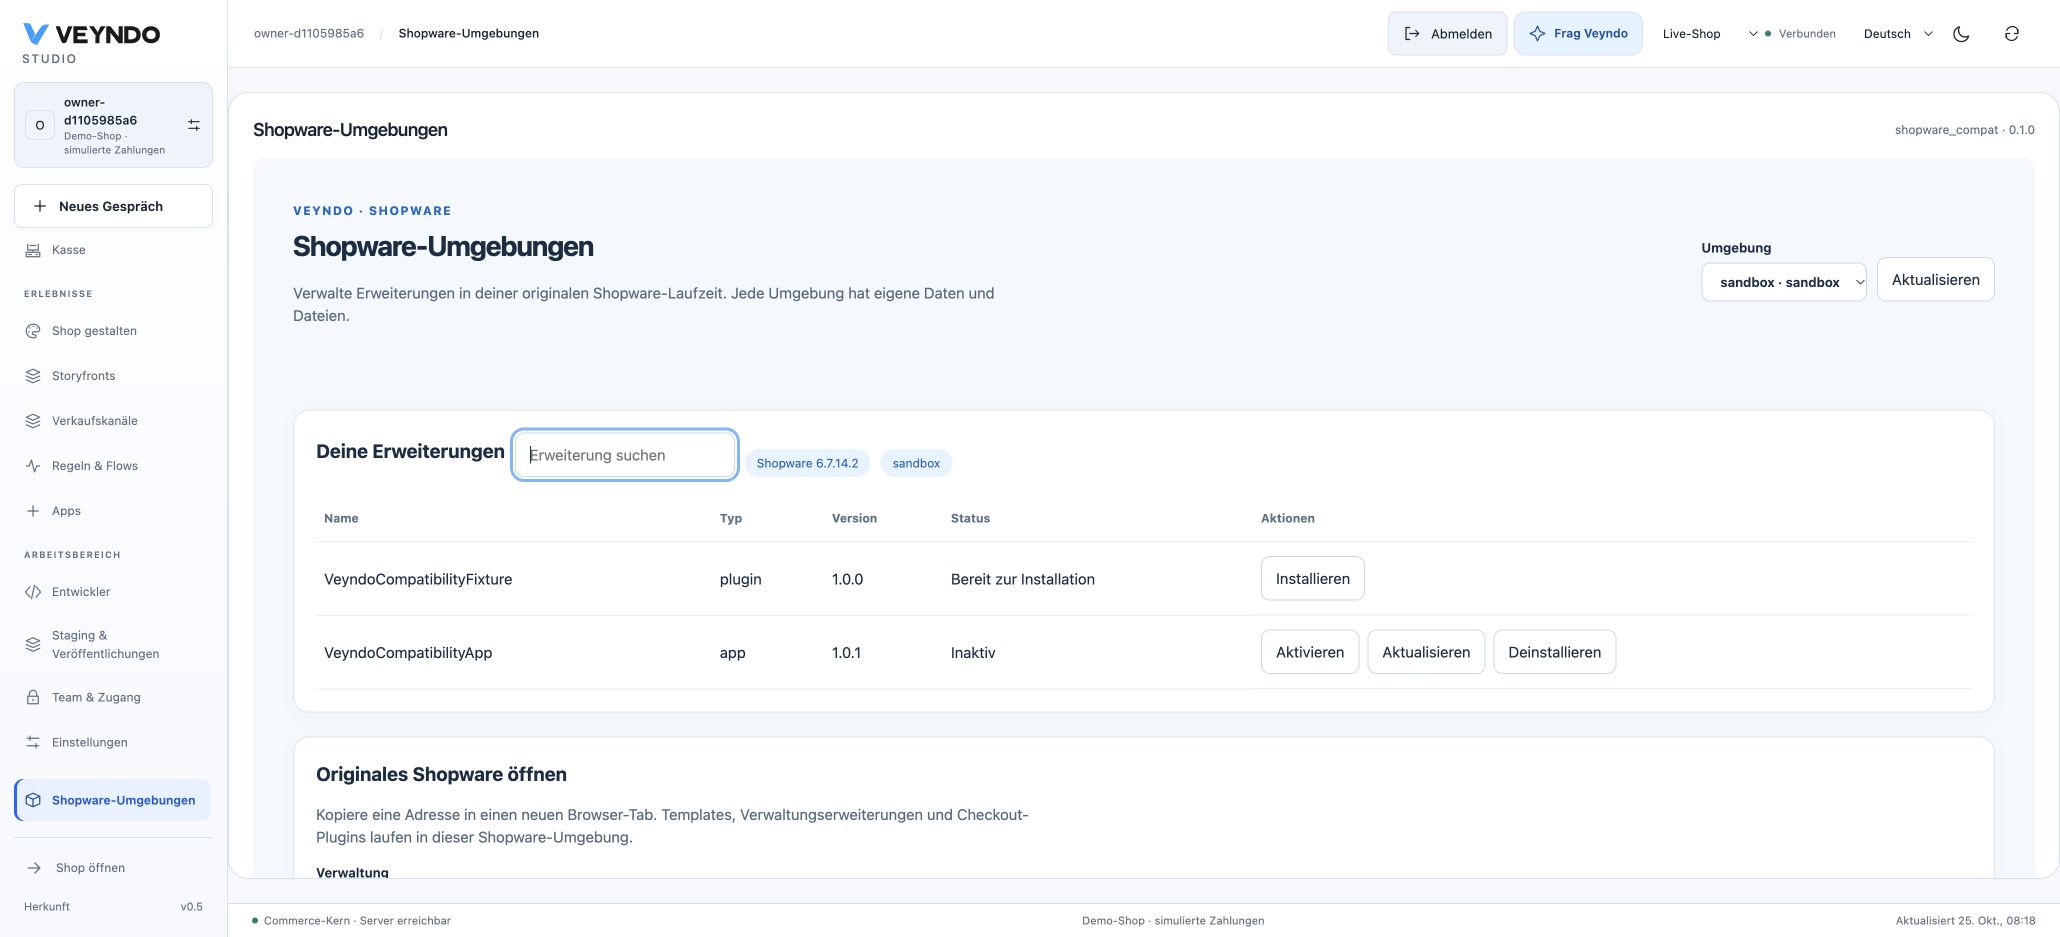
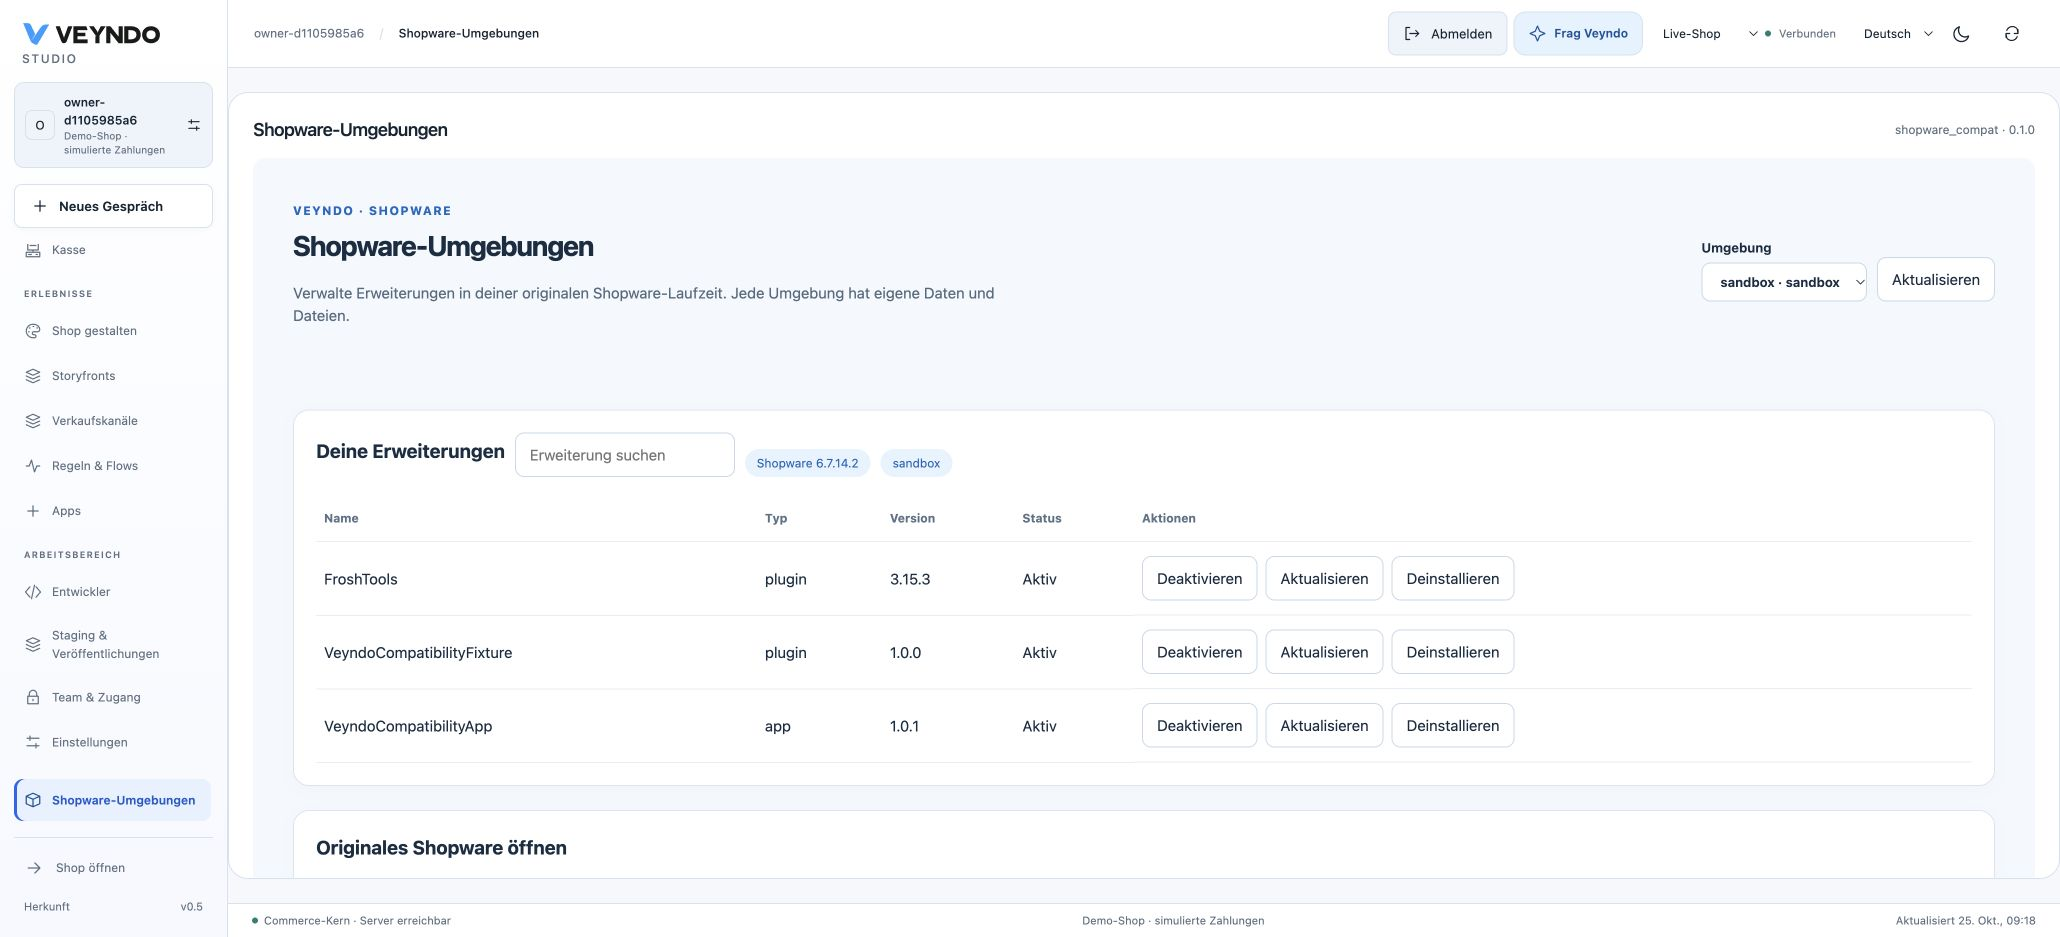
Isolate original Shopware login cookies by cell hostname

diff --git a/extensions/apps/shopware-compat/service/config.rs b/extensions/apps/shopware-compat/service/config.rs
@@ -26,7 +26,9 @@ fn origin(raw: &str, local: bool) -> bool {
         return false;
     };
     (u.scheme() == "https"
-        || (local && u.scheme() == "http" && matches!(u.host_str(), Some("127.0.0.1" | "[::1]"))))
+        || (local
+            && u.scheme() == "http"
+            && matches!(u.host_str(), Some("127.0.0.1" | "[::1]" | "localhost"))))
         && u.host_str().is_some()
         && u.path() == "/"
         && u.username().is_empty()
@@ -54,7 +56,19 @@ impl Config {
         if self.gateway.len() < 24 || self.tenants.is_empty() || self.tenants.len() > 1000 {
             return Err("Invalid gateway configuration".into());
         }
-        let mut origins = HashSet::new();
+        // Cookies ignore ports. Sharing a hostname can overwrite another cell's
+        // original Shopware login, even when their origins/databases differ.
+        let core_hosts = self
+            .tenants
+            .values()
+            .filter_map(|t| {
+                reqwest::Url::parse(&t.core_url)
+                    .ok()?
+                    .host_str()
+                    .map(str::to_owned)
+            })
+            .collect::<HashSet<_>>();
+        let mut hosts = HashSet::new();
         for (id, t) in &self.tenants {
             if id.is_empty()
                 || id.len() > 100
@@ -84,8 +98,9 @@ impl Config {
                     return Err("Invalid fixed Shopware cell configuration".into());
                 }
                 let u = reqwest::Url::parse(&c.url)?;
-                if !origins.insert(u.origin().ascii_serialization()) {
-                    return Err("A Shopware origin cannot be shared between cells or shops".into());
+                let host = u.host_str().ok_or("Missing Shopware hostname")?.to_owned();
+                if core_hosts.contains(&host) || !hosts.insert(host) {
+                    return Err("Shopware cells require distinct hostnames, separate from Veyndo; ports do not isolate cookies".into());
                 }
             }
         }
@@ -111,5 +126,56 @@ mod tests {
         }
         assert!(!origin("http://127.0.0.1:8813", false));
         assert!(origin("http://127.0.0.1:8813", true));
+        assert!(origin("http://localhost:8813", true));
+        assert!(!origin("http://localhost:8813", false));
+    }
+    #[test]
+    fn cell_cookies_cannot_share_a_host_even_on_different_ports() {
+        let cell = |url: &str| Cell {
+            url: url.into(),
+            client_id: "test-client-id-1234".into(),
+            client_secret: "s".repeat(32),
+            version: "6.7.14.2".into(),
+            image_digest: format!("sha256:{}", "a".repeat(64)),
+            environment: "sandbox".into(),
+        };
+        let mut config = Config {
+            gateway: "g".repeat(32),
+            tenants: HashMap::from([(
+                "shop".into(),
+                Tenant {
+                    core_url: "https://core.example".into(),
+                    callback_token: "c".repeat(32),
+                    cells: HashMap::from([
+                        ("one".into(), cell("https://cell.example")),
+                        ("two".into(), cell("https://cell.example:8443")),
+                    ]),
+                },
+            )]),
+        };
+        assert!(config.validate(false).is_err());
+        config
+            .tenants
+            .get_mut("shop")
+            .unwrap()
+            .cells
+            .insert("two".into(), cell("https://core.example:8443"));
+        assert!(config.validate(false).is_err());
+        config
+            .tenants
+            .get_mut("shop")
+            .unwrap()
+            .cells
+            .insert("two".into(), cell("https://other.example"));
+        assert!(config.validate(false).is_ok());
+        config.tenants.insert(
+            "other-shop".into(),
+            Tenant {
+                core_url: "https://other-core.example".into(),
+                callback_token: "c".repeat(32),
+                cells: HashMap::from([("one".into(), cell("https://cell.example:9443"))]),
+            },
+        );
+        assert!(config.validate(false).is_err());
     }
 }

diff --git a/extensions/apps/shopware-compat/tests/container.py b/extensions/apps/shopware-compat/tests/container.py
@@ -28,7 +28,7 @@ with tempfile.TemporaryDirectory(prefix=name) as temp:
     if not args.cell_image:
         run(docker + ['build', '-f', str(PACKAGE / 'deploy/Cell.Dockerfile'), '-t', image, '.'])
     image = run(docker + ['image', 'inspect', image, '--format', '{{.Id}}'], quiet=True).stdout.strip()
-    env_file.write_text(f'CELL_IMAGE={image}\nCELL_URL=http://127.0.0.1:{cell_port}\nCELL_PORT={cell_port}\nCELL_SECRET={app_secret}\nCELL_DB_PASSWORD={db_password}\nCELL_INGRESS_IMAGE={name}-ingress\n')
+    env_file.write_text(f'CELL_IMAGE={image}\nCELL_URL=http://localhost:{cell_port}\nCELL_PORT={cell_port}\nCELL_SECRET={app_secret}\nCELL_DB_PASSWORD={db_password}\nCELL_INGRESS_IMAGE={name}-ingress\n')
     env_file.chmod(0o600)
     compose = docker + ['compose', '--env-file', str(env_file), '-p', name, '-f', str(PACKAGE / 'deploy/compose.yaml')]
     pg_name = name + '-pg'
@@ -54,7 +54,7 @@ with tempfile.TemporaryDirectory(prefix=name) as temp:
         run(cli + ['theme:compile', '--no-interaction'])
         client, secret = 'SWIA' + secrets.token_hex(14).upper(), secrets.token_hex(32)
         run(cli + ['integration:create', 'Synthetic compatibility acceptance', '--admin', '--access-key', client, '--secret-access-key', secret, '--no-interaction'], quiet=True)
-        url = f'http://127.0.0.1:{cell_port}'
+        url = f'http://localhost:{cell_port}'
         for _ in range(60):
             try:
                 with urllib.request.urlopen(url + '/admin', timeout=3) as response:

diff --git a/extensions/apps/shopware-compat/tests/integration.py b/extensions/apps/shopware-compat/tests/integration.py
@@ -25,7 +25,7 @@ def call(base,path,data=None,headers=None,status=200,method=None):
     assert r.status in (status if isinstance(status,tuple) else (status,)),(path,r.status,body)
     return body
 
-sw=os.environ['SHOPWARE_TEST_URL'];assert urlsplit(sw).hostname=='127.0.0.1', 'Use an isolated loopback Shopware'
+sw=os.environ['SHOPWARE_TEST_URL'];assert urlsplit(sw).hostname=='localhost', 'Use localhost for isolated Shopware; Veyndo uses 127.0.0.1'
 client=os.environ['SHOPWARE_TEST_CLIENT'];secret=os.environ['SHOPWARE_TEST_SECRET']
 def sw_headers():
     token=call(sw,'/api/oauth/token',{'grant_type':'client_credentials','client_id':client,'client_secret':secret})['access_token']

diff --git a/docs/evidence/shopware-compatibility-2026-10-25.md b/docs/evidence/shopware-compatibility-2026-10-25.md
@@ -19,6 +19,8 @@ rollout or a compatibility certificate for arbitrary third-party packages.
 | Container boundary | The actual web container ran as www-data with a read-only root, all capabilities dropped and only the internal cell network. |
 | Controller image | The release Docker image built and served its Rust health response as non-root `app`, with a read-only root and dropped capabilities. It contained neither a PHP nor a Python interpreter and exited normally on SIGTERM. |
 | Browser | Personal sign-in, extension inventory, search, review dialog and cancellation worked in Chrome. The guide includes the actual Studio capture. |
+| Existing third-party extension | Unchanged FroshTools 3.15.3 installed and activated through native Veyndo jobs. Its original cache API returned 22 pools; its system/cache administration screens rendered, and its theme compilation action reached the original theme assignment endpoint with HTTP 200. |
+| Browser host isolation | Multiple pre-existing local Shopware tabs shared `127.0.0.1` on different ports. They share the original `bearerAuth` cookie, and the tested session repeatedly lost its token. Moving this cell to `localhost` retained the login across navigation and reload. Configuration now rejects hostname reuse between cells and Veyndo, including different ports; a regression covers intra-shop, cross-shop and core collisions. |
 
 The image used for the local acceptance was
 `sha256:97a3026105b710f8ec43618a2f434e9ddd6c6d3c7e33293ddba5b614d4cfeb17`.
@@ -26,9 +28,17 @@ The package recipe pins original production commit
 `0242545ecdb2364cdb01aa41340c3063282de79e` and includes its Composer lock.
 A build on another architecture has a different image identity.
 
+The additional third-party archive is the official
+[FroshTools 3.15.3 release](https://github.com/FriendsOfShopware/FroshTools/releases/tag/3.15.3),
[1 lines of base64/hex data omitted]
+It was staged in this disposable cell without changing its source. Its external
+security/advisory/time checks reported blocked network access, as expected for the
+internal-only test network. Other FroshTools operations were not certified.
+
 ## Shared host regression
 
-- 235 Rust unit tests passed for the commerce and compatibility binaries; Clippy
+- 235 Rust unit tests passed for the commerce and compatibility binaries; the
+  added cookie-host regression also passed (four controller tests). Clippy
   passed with warnings denied.
 - Ten focused AppFrame tests passed, including foreign document URLs, changed
   context, bridge admission and retry behavior. The frontend production build passed.
@@ -61,7 +71,7 @@ There is no automatic two-way product, inventory or order synchronization with
 native Veyndo, and original checkout plugins do not modify the native Rust
 checkout. App packages requiring external registration, mail or payment providers
 need their own allowed routes and configuration. This local acceptance uses two
-purpose-built extensions; it does not certify Shopware 5, every 6.x version or
+purpose-built extensions plus the listed FroshTools checks; it does not certify Shopware 5, every 6.x version or
 arbitrary commercial extensions. Provisioning and package staging use the supplied
 operator deployment and original Shopware tools.
 

diff --git a/docs/shopware-compatibility.md b/docs/shopware-compatibility.md
@@ -11,7 +11,7 @@ original administration and storefront in that environment.
 
 ![Original Shopware extension inventory inside Veyndo Studio](assets/shopware-compatibility.jpg)
 
-Actual local Studio session with the plugin and App Script fixtures. The screen
+Actual local Studio session with FroshTools 3.15.3 and the plugin/App Script fixtures. The screen
 uses the isolated original Shopware environment; the displayed runtime data comes
 from its Admin API.
 
@@ -29,7 +29,9 @@ flowchart LR
     R --> H[Private Veyndo app records]
 ```
 
-Each shop and environment gets a separate database, files and credentials.
+Each shop and environment gets a separate hostname, database, files and credentials.
+The controller rejects shared hostnames even with different ports, because browser
+cookies do not isolate ports. Veyndo and original Shopware use separate hosts.
 The controller never runs plugin PHP inside Veyndo's Rust process. It has no core
 database credential or Docker socket. Extension code stays inside the original
 Shopware environment; the Veyndo app package owns its controller, UI, deployment
@@ -92,6 +94,15 @@ foreign-tenant rejection and bounded service concurrency.
 The order uses original Shopware’s manual invoice method and remains unpaid;
 it makes no external payment or email call.
 The source fixture and commands live [with the app](../extensions/apps/shopware-compat/tests/integration.py).
+
+An additional local acceptance installed and activated the unchanged public
+[FroshTools 3.15.3 release](https://github.com/FriendsOfShopware/FroshTools/releases/tag/3.15.3)
+through Veyndo jobs. The original administration rendered its system and cache
+views, the cache API returned 22 pools, and its **Compile theme** action completed
+through the original Shopware theme API. The isolated test network blocks external
+update/advisory services; those checks visibly report that they cannot connect.
+
+![FroshTools cache interface inside the original Shopware administration](assets/shopware-froshtools-original.jpg)
 
 This implementation manages original Shopware environments. Automatic catalogue,
 inventory and order synchronization with native Veyndo is not included. A plugin

diff --git a/CHANGELOG.md b/CHANGELOG.md
@@ -6,6 +6,7 @@
 - Package an isolated original Shopware 6.7.14.2 runtime with its Composer lock, separate MariaDB/files, workers and an unprivileged ingress. Plugin PHP and its migrations remain outside the Veyndo core.
 - Persist per-environment mutation locks and receipts through shared app storage. Keep unfinished operations fenced after a controller restart, and exclude operational entities from sandbox cloning and selected publication.
 - Add real original-runtime plugin/App Script fixtures, guest checkout, stock/cart checks and a disposable-container suite to native CI. The operational-record release exclusion extends the existing extracted Lean policy.
+- Reject shared cell/core hostnames even on different ports to prevent original Shopware login cookie collisions. Verify unchanged FroshTools 3.15.3 installation/activation through Veyndo and its original cache interface and theme compilation in Chrome.
 - Repair embedded external app UI by serving pinned code in a response-enforced opaque sandbox, retaining the Studio script policy and per-action grants.
 - Add the setup guide and actual Studio screenshot. Automatic commerce synchronization, arbitrary extension certification and public service deployment are not claimed.
 

diff --git a/extensions/apps/shopware-compat/README.md b/extensions/apps/shopware-compat/README.md
@@ -98,9 +98,13 @@ build `deploy/Controller.Dockerfile` from the repository root.
 ```
 
 The service checks the original version on each inspection. `imageDigest` is
-operator-supplied deployment metadata, not remote image attestation. Shared origins
-across shops/cells are rejected; deployment must also avoid aliasing one database
-through different hostnames. Loopback HTTP requires `SHOPWARE_COMPAT_LOCAL_TEST=1`.
+operator-supplied deployment metadata, not remote image attestation. Each cell
+requires its own hostname, also distinct from every configured Veyndo core host.
+Different ports do not isolate cookies. The service rejects a reused hostname
+across shops/cells, including reuse on another port. Deployment must also avoid
+aliasing one database through different hostnames. For local browser tests use
+`localhost` for one cell and `127.0.0.1` for Veyndo; never open multiple Shopware
+installations on that cell hostname. Loopback HTTP requires `SHOPWARE_COMPAT_LOCAL_TEST=1`.
 Use HTTPS otherwise. `SHOPWARE_COMPAT_BIND` defaults to `127.0.0.1:8812`.
 
 5. Configure the existing Veyndo `APP_SERVICES.shopware_compat` with the service

diff --git a/docs/status.md b/docs/status.md
@@ -9,7 +9,10 @@ journey are tracked separately. All purchases below use **simulated payments**.
 The [Shopware environments app](shopware-compatibility.md) manages a separate
 original Shopware 6.7.14.2 through an app-owned Rust controller, native jobs and
 private operation records. Its local original-runtime tests exercise plugin
-migration/event execution and a Twig App Script. The isolated runtime recipe
+migration/event execution and a Twig App Script. Additional local acceptance
+installed FroshTools 3.15.3 through Veyndo and used its original cache interface
+and theme compilation. Distinct cell/core hostnames prevent login cookie collisions.
+The isolated runtime recipe
 includes its own database and workers. This is not a public deployment or universal
 extension certification, and it does not synchronize native Veyndo orders/stock
 with Shopware. The existing public acceptance below remains unchanged.
